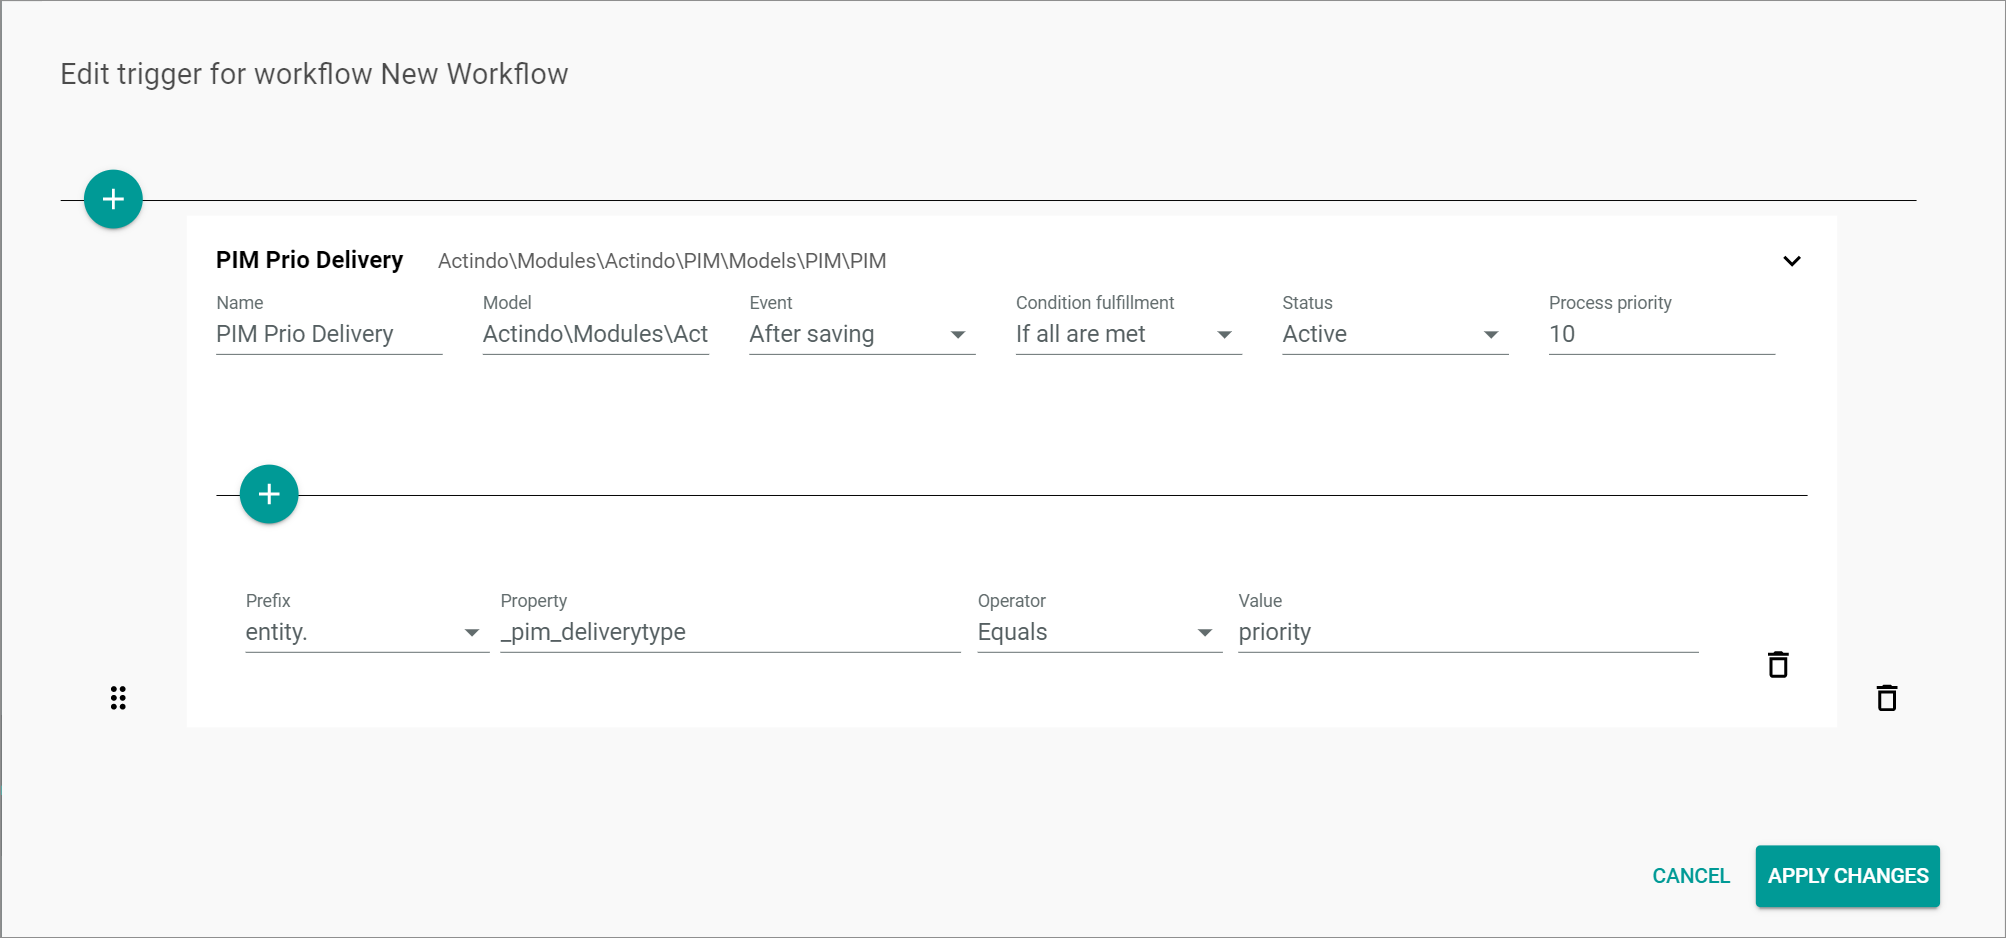
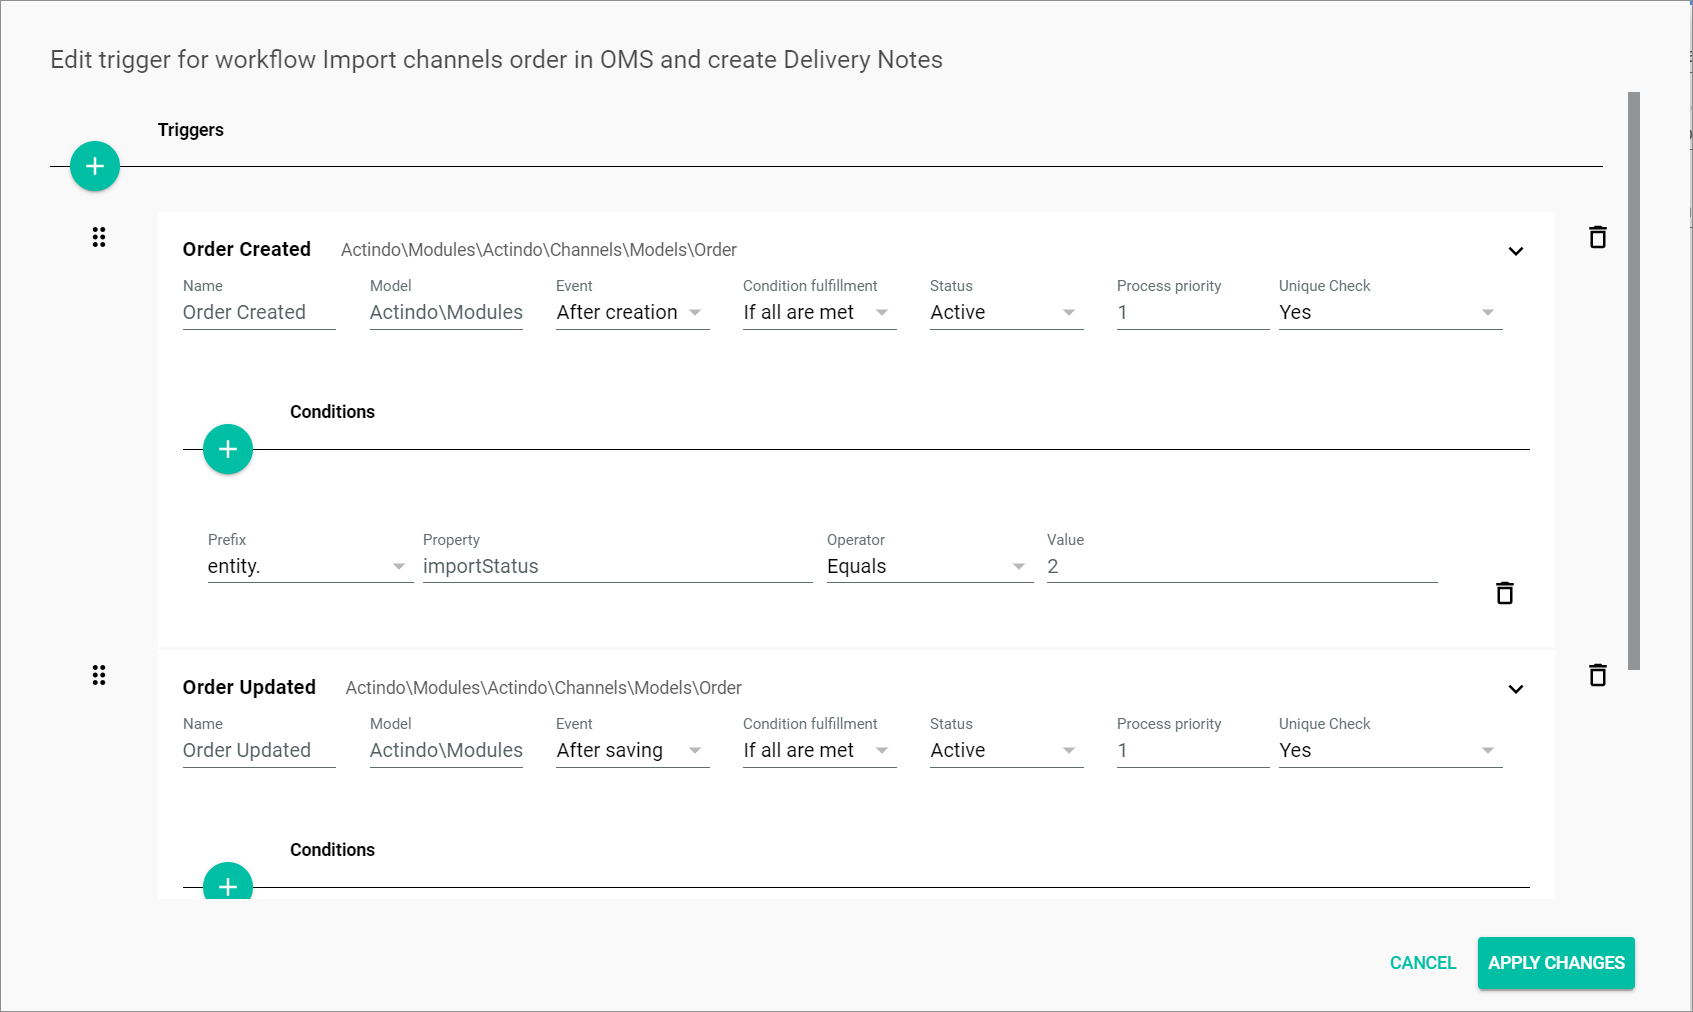
ACD-827

diff --git a/ActindoWorkFlow/UserInterface/02a_Workflows.md b/ActindoWorkFlow/UserInterface/02a_Workflows.md
@@ -319,6 +319,9 @@ The *Edit trigger for workflow "Workflow name"* window allows you to determine a
 - *Process priority*  
     Enter the priority for the process execution. The priority is specified with a positive integer. The greater the number, the higher the priority.  
 
+- *Unique check*   
+    Click the drop-down list and select, if processes using this workflow configuration and the entity should only be executed onetime. 
+
     > [Info] As soon as all trigger fields are completed, the ![Add](../../Assets/Icons/Plus01.png "[Add]") (Add) button is displayed below the trigger input line.
 
 - ![Drag](../../Assets/Icons/Points03.png "[Drag]") (Drag)  
